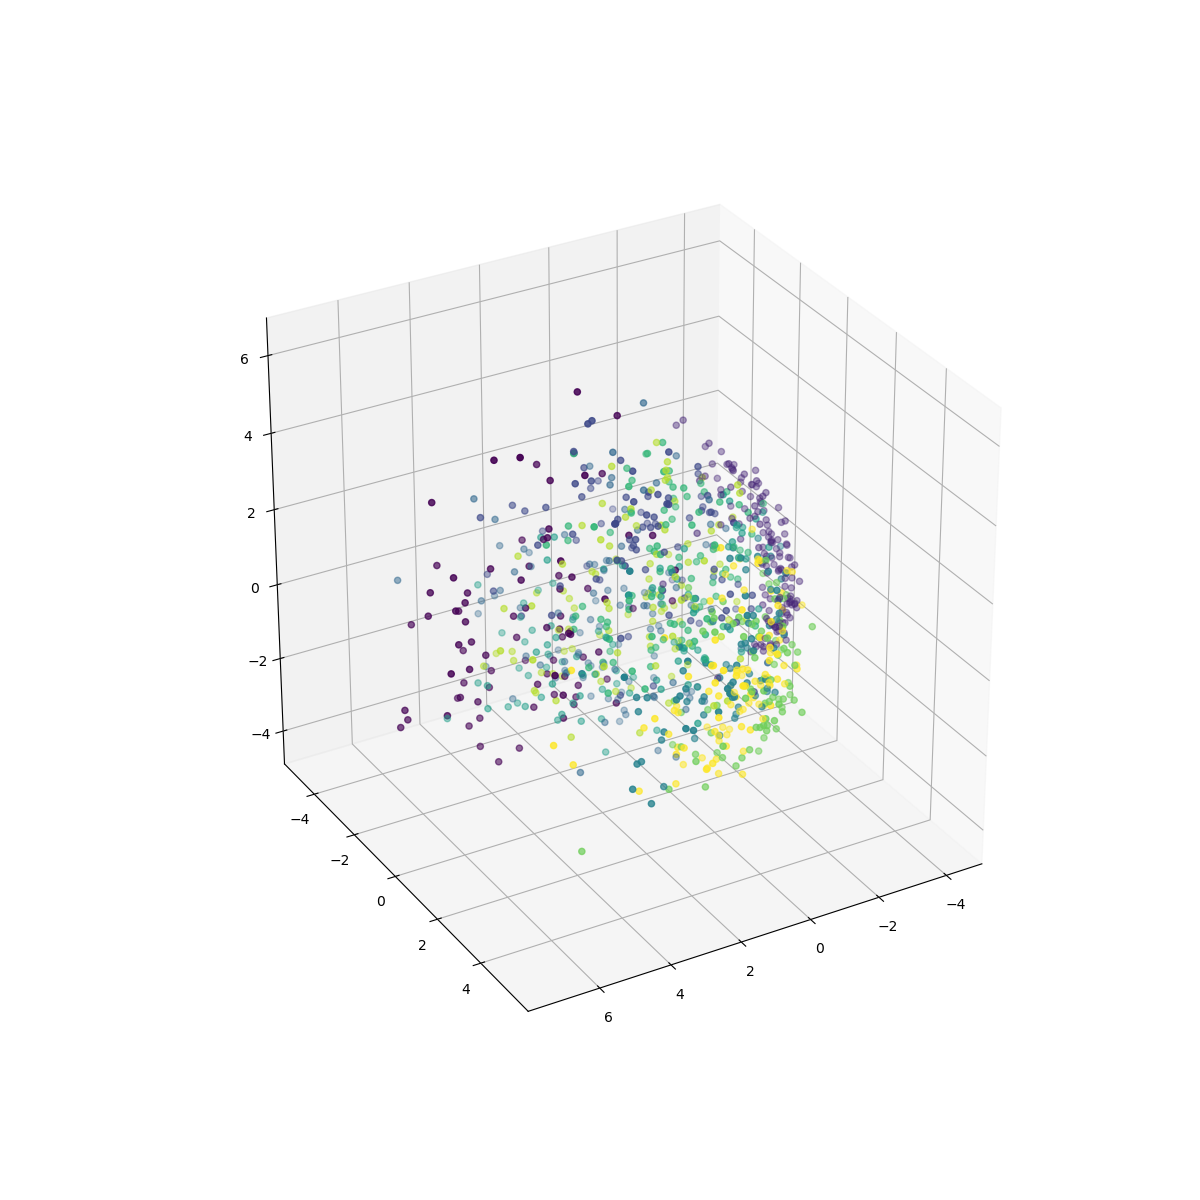
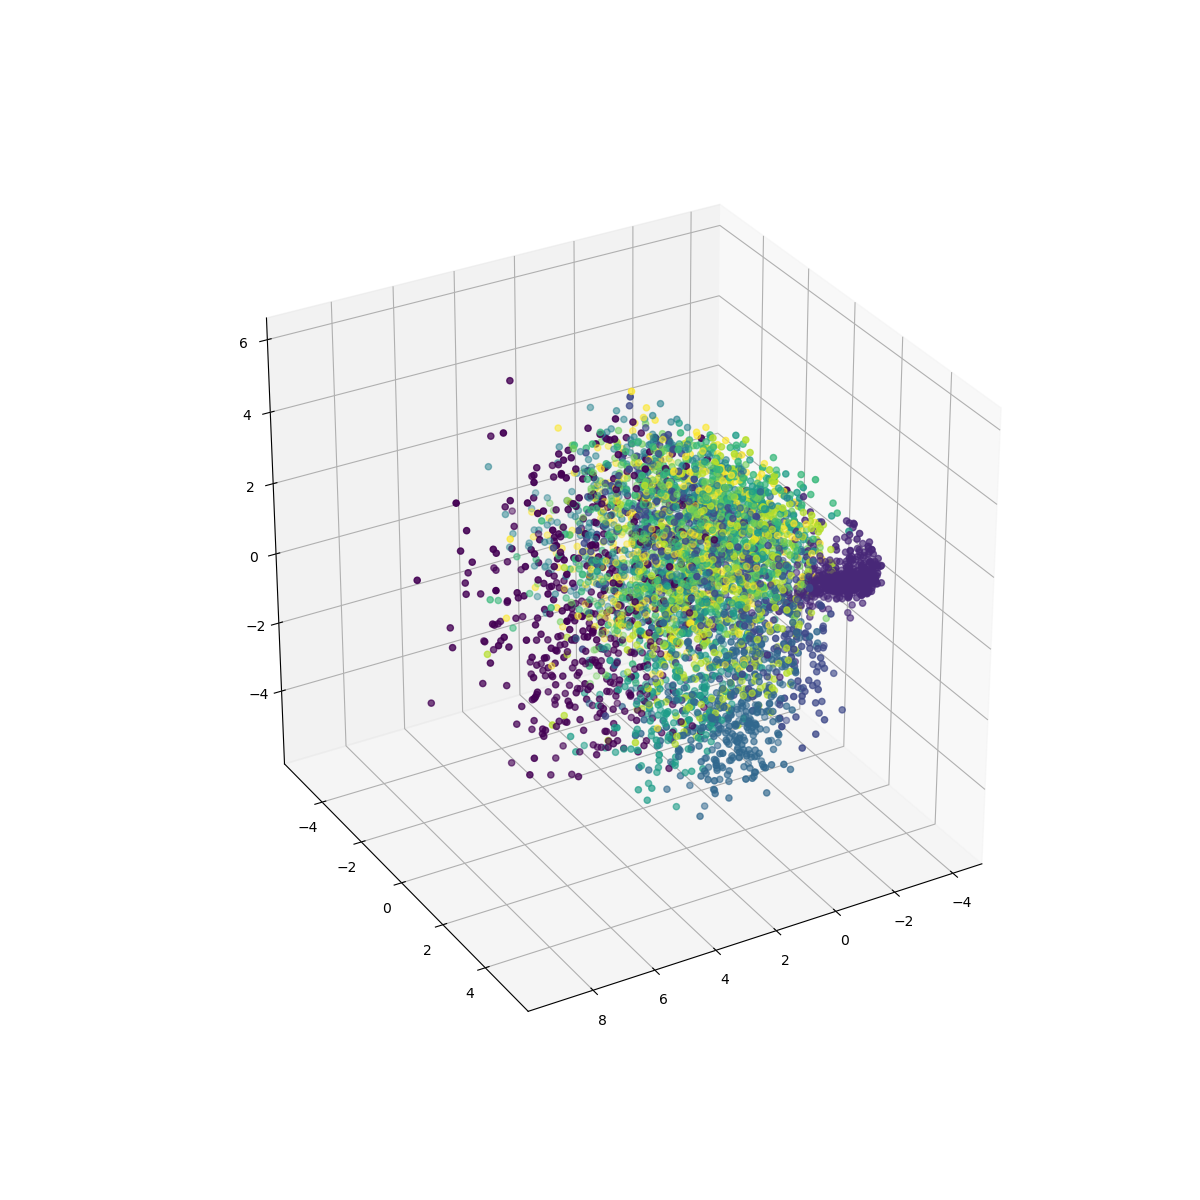
Incremental commit

diff --git a/shared_imports.py b/shared_imports.py
@@ -3,6 +3,7 @@ warnings.simplefilter(action='ignore', category=FutureWarning)
 warnings.simplefilter(action='ignore', category=UserWarning)
 
 # suppress tensorflow info/warnings
+import sys
 import os
 os.environ['TF_CPP_MIN_LOG_LEVEL'] = '3'
 import tensorflow as tf
@@ -36,7 +37,7 @@ from keras.models import Model
 from keras.layers import Input
 from keras.layers import Layer, Dense, Conv2D, Conv2DTranspose, MaxPooling2D, Flatten, Activation, Lambda, Reshape
 from keras.layers.advanced_activations import LeakyReLU
-from keras.losses import mse, categorical_crossentropy
+from keras.losses import mse, binary_crossentropy, categorical_crossentropy
 
 # for spectral embedding
 from keras.datasets import mnist, cifar100, fashion_mnist
@@ -109,10 +110,12 @@ def load_mnist(subsample_no=0):
         X_test = X_test[index_list]
         y_test = y_test[index_list]
 
-    # center the data; this seems appropriate for cosine angle, probably doesn't
-    # hurt for other measure
-    colMeans = X_train.mean(axis=0)
-    X_train = X_train - colMeans
+    # in some cases might make sense to center
+    # omitting here
+    # colMeans = X_train.mean(axis=0)
+    # X_train = X_train - colMeans
+    # colMeans = X_test.mean(axis=0)
+    # X_test = X_test - colMeans
     return X_train, y_train, X_test, y_test
 
 # dead-simple convolutional architecture for the simple 3 x 1 regression problem
@@ -169,22 +172,123 @@ def measure(X, sim_dist_method="cosine"):
         csim = cosine_similarity(X)
     return csim
 
+# sample from MVN given a mean and log standard deviation
+def sampling(args):
+    z_mu, z_log_sigma = args
+    latent_dim = z_mu.shape[1]
+    # sample white noise
+    epsilon = K.random_normal(shape=(K.shape(z_mu)[0], latent_dim), mean=0., stddev=1.)
+    return z_mu + K.exp(z_log_sigma) * epsilon
+
+# most of code from: https://keras.io/examples/variational_autoencoder/
+def vae_embed(X_train, y_train, X_test, y_test, latent_dim=3, epochs=10, verbose=0):
+    # hard-coding this
+    image_size = 28
+    original_dim = image_size * image_size
+    input_shape = (original_dim, )
+    intermediate_dim = 512
+    batch_size = 128
+
+    # build encoder model
+    inputs = Input(shape=input_shape, name='encoder_input')
+    x = Dense(intermediate_dim, activation='relu')(inputs)
+    z_mean = Dense(latent_dim, name='z_mean')(x)
+    z_log_var = Dense(latent_dim, name='z_log_var')(x)
+
+    # define a sample vector from the latent distribution
+    # this will be the input into the decoder!
+    z = Lambda(sampling, output_shape=(latent_dim,), name='z')([z_mean, z_log_var])
+
+    encoder = Model(inputs, [z_mean, z_log_var, z], name='encoder')
+
+    # build decoder model
+    latent_inputs = Input(shape=(latent_dim,), name='z_sampling')
+    x = Dense(intermediate_dim, activation='relu')(latent_inputs)
+    outputs = Dense(original_dim, activation='sigmoid')(x)
+
+    decoder = Model(latent_inputs, outputs, name='decoder')
+
+    # instantiate VAE model
+    outputs = decoder(encoder(inputs)[2])
+    vae = Model(inputs, outputs, name='vae_mlp')
+
+    reconstruction_loss = mse(inputs, outputs)
+
+    reconstruction_loss *= original_dim
+    kl_loss = 1 + z_log_var - K.square(z_mean) - K.exp(z_log_var)
+    kl_loss = K.sum(kl_loss, axis=-1)
+    kl_loss *= -0.5
+    vae_loss = K.mean(reconstruction_loss + kl_loss)
+    vae.add_loss(vae_loss)
+    vae.compile(optimizer='adam')
+
+    vae.fit(X_train, epochs=epochs, batch_size=batch_size, validation_data=(X_test, None))
+
+    if verbose > 0 and latent_dim == 2:
+        # plot diagnostics
+        filename = "plots/vae_mean.png"
+        z_mean, _, _ = encoder.predict(X_test, batch_size=128)
+        plt.figure(figsize=(12, 10))
+        plt.scatter(z_mean[:, 0], z_mean[:, 1], c=y_test)
+        plt.colorbar()
+        plt.xlabel("z[0]")
+        plt.ylabel("z[1]")
+        plt.savefig(filename)
+
+        filename = "plots/latent_digits.png"
+        # display a 30x30 2D manifold of digits
+        n = 30
+        digit_size = 28
+        figure = np.zeros((digit_size * n, digit_size * n))
+        # linearly spaced coordinates corresponding to the 2D plot
+        # of digit classes in the latent space
+        grid_x = np.linspace(-4, 4, n)
+        grid_y = np.linspace(-4, 4, n)[::-1]
+
+        for i, yi in enumerate(grid_y):
+            for j, xi in enumerate(grid_x):
+                z_sample = np.array([[xi, yi]])
+                x_decoded = decoder.predict(z_sample)
+                digit = x_decoded[0].reshape(digit_size, digit_size)
+                figure[i * digit_size: (i + 1) * digit_size,
+                       j * digit_size: (j + 1) * digit_size] = digit
+
+        plt.figure(figsize=(10, 10))
+        start_range = digit_size // 2
+        end_range = n * digit_size + start_range + 1
+        pixel_range = np.arange(start_range, end_range, digit_size)
+        sample_range_x = np.round(grid_x, 1)
+        sample_range_y = np.round(grid_y, 1)
+        plt.xticks(pixel_range, sample_range_x)
+        plt.yticks(pixel_range, sample_range_y)
+        plt.xlabel("z[0]")
+        plt.ylabel("z[1]")
+        plt.imshow(figure, cmap='Greys_r')
+        plt.savefig(filename)
+
+    # we'll just need the latent space, so return encoder only
+    return encoder
+
 # perform an embedding of X
-def embed(X, n_components, embed_method="PCA"):
+def embed(X_train, y_train, X_test, y_test, n_components, embed_method="PCA", epochs=10):
     X_transformed = None
     if embed_method == "Laplacian eigenmaps":
         embedding = SpectralEmbedding(n_components=n_components)
-        X_transformed = embedding.fit_transform(X)
+        X_transformed = embedding.fit_transform(X_train)
+    elif embed_method == "VAE":
+        encoder = vae_embed(X_train, y_train, X_test, y_test, latent_dim=n_components, epochs=epochs)
+        X_transformed, _, _ = encoder.predict(X_train, batch_size=128)
+        print(X_transformed.shape)
     else:
         pca = decomposition.PCA(n_components=n_components)
-        pca.fit(X)
-        X_transformed = pca.transform(X)
+        pca.fit(X_train)
+        X_transformed = pca.transform(X_train)
     return X_transformed
 
 # wrapper to embed and get the vector of (off-diagonal) pairwise distances
 # here csim_hd is the similarity or distance matrix over the same samples in the HD space
-def embed_and_correlate(X, n_components, csim_hd, embed_method="PCA", sim_dist_method="cosine"):
-    X_transformed = embed(X, n_components, embed_method=embed_method)
+def embed_and_correlate(X_train, y_train, X_test, y_test, n_components, csim_hd, embed_method="PCA", sim_dist_method="cosine", epochs=10):
+    X_transformed = embed(X_train, y_train, X_test, y_test, n_components, embed_method=embed_method, epochs=epochs)
     csim_ld_vec = None
     mean_measure = 0.0
     std_measure = 0.0
@@ -204,52 +308,6 @@ def embed_and_correlate(X, n_components, csim_hd, embed_method="PCA", sim_dist_m
         corr_measure = np.corrcoef(csim_hd_vec, csim_ld_vec)[0,1]
     return (X_transformed, mean_measure, std_measure, corr_measure)
 
-# heavily borrowing architecture from: https://keras.io/examples/variational_autoencoder/
-# network parameters
-def vae_embed(X_train, X_test, latent_dim=3, epochs=10, verbose=1):
-    # we'll only use this with MNIST; hard-code the dimensions
-    original_dim = 28*28
-    input_shape = (original_dim, )
-    intermediate_dim = 12*12 # pretty arbitrary
-
-    # encoder; simple - no convolution, just dense layers
-    inputs = Input(shape=input_shape, name='encoder_input')
-    x = Dense(intermediate_dim, activation='relu')(inputs)
-    z_mean = Dense(latent_dim, name='z_mean')(x)
-    z_log_var = Dense(latent_dim, name='z_log_var')(x)
-
-    # define a sample vector from the latent distribution
-    # this will be the input into the decoder!
-    z = Lambda(sampling, output_shape=(latent_dim,), name='z')([z_mean, z_log_var])
-
-    encoder = Model(inputs, [z_mean, z_log_var, z], name='encoder')
-
-    # decoder
-    latent_inputs = Input(shape=(latent_dim,), name='z_sampling')
-    x = Dense(intermediate_dim, activation='relu')(latent_inputs)
-    outputs = Dense(original_dim, activation='sigmoid')(x)
-
-    decoder = Model(latent_inputs, outputs, name='decoder')
-
-    # instantiate VAE model
-    outputs = decoder(encoder(inputs)[2])
-    vae = Model(inputs, outputs, name='vae_mlp')
-    models = (encoder, decoder)
-
-    reconstruction_loss = mse(inputs, outputs)
-
-    reconstruction_loss *= original_dim
-    kl_loss = 1 + z_log_var - K.square(z_mean) - K.exp(z_log_var)
-    kl_loss = K.sum(kl_loss, axis=-1)
-    kl_loss *= -0.5
-    vae_loss = K.mean(reconstruction_loss + kl_loss)
-    vae.add_loss(vae_loss)
-    vae.compile(optimizer='adam')
-
-    vae.fit(X_train, epochs=epochs, batch_size=128, validation_data=(X_test, None), verbose=verbose)
-    
-    # just return the fitted /encoder/, since all we want to do is predict
-    return encoder
 
 
 

diff --git a/pr2.py b/pr2.py
@@ -1,52 +1,55 @@
 from shared_imports import *
 
+# get similarity measure from user
+sim_dist_method = "cosine"
+if(len(sys.argv) > 1):
+    if sys.argv[1] == "euclid":
+        sim_dist_method == "Euclidean distance"
+    elif sys.argv[1] == "knn":
+        sim_dist_method == "KNN"
+
 # problem 2 part 1 - use a spectral embedding method (or two) to embed the MNIST data and evaluate
 #                    how well distances are preserved
 
+# problem 2 part 2 - rinse, repeat with a variational autoencoder; we'll combine all into one script
+
 # embed X_train and report the similarity of its pairwise similarities/distances with those in the original
 # space
-def report_embedding(X, n_components, csim_hd, embed_method, sim_dist_method):
-    print("    Embedding dimension: " + str(n_components))
-    (X_transformed, mean_measure, std_measure, corr_measure) = embed_and_correlate(X_train, n_components, csim_hd, embed_method=embed_method, sim_dist_method=sim_dist_method)
+def report_embedding(X_train, y_train, X_test, y_test, n_components, csim_hd, embed_method, sim_dist_method):
+    print("  Embedding dimension: " + str(n_components))
+    (X_transformed, mean_measure, std_measure, corr_measure) = embed_and_correlate(X_train, y_train, X_test, y_test, n_components, csim_hd, embed_method=embed_method, sim_dist_method=sim_dist_method, epochs=2)
     if sim_dist_method != "KNN":
-        print("      Mean of low-dim similarities/distances: " + str(round(mean_measure, round_tol)))
-        print("      Std dev of low-dim similarities/distances: " + str(round(std_measure, round_tol)))
-    print("      Correlation of similarities/distances: " + str(round(corr_measure, round_tol)))
+        print("    Mean of low-dim similarities/distances: " + str(round(mean_measure, round_tol)))
+        print("    Std dev of low-dim similarities/distances: " + str(round(std_measure, round_tol)))
+    print("    Correlation of similarities/distances: " + str(round(corr_measure, round_tol)))
 
-(X_train, y_train, X_test, y_test) = load_mnist(subsample_no=1000)
+(X_train, y_train, X_test, y_test) = load_mnist(subsample_no=2000)
 
 print("Original dimensionality is: " + str(X_train.shape[1]))
 
-
-'''
-sim_dist_method_array = ["cosine", "Euclidean distance", "KNN"]
-csim_hd_array = {}
-for sim_dist_method in sim_dist_method_array:
-    csim_hd_array[sim_dist_method] = measure(X_train, sim_dist_method=sim_dist_method)
+csim_hd = measure(X_train, sim_dist_method=sim_dist_method)
 
 # top loop, for efficiency: embedding methods
 # then loop similarity/distance measures
 # then loop embedding dimensions (component number)
 
 # in practice this is super difficult to parse!
-
 component_sweep = [784, 400, 200, 100, 50, 10, 3]
-# component_sweep = [10]
 
-for embed_method in ["PCA", "Laplacian eigenmaps"]:
+#for embed_method in ["PCA", "Laplacian eigenmaps"]:
+for embed_method in ["VAE"]:
     print("Embedding method: " + embed_method)
-    for sim_dist_method in sim_dist_method_array:
-        print("  Similarity/distance: " + sim_dist_method)
-        csim_hd = csim_hd_array[sim_dist_method]
-        if sim_dist_method != "KNN":
-            csim_hd_vec = vectorize_measure(csim_hd)
-            print("  Mean of high-dim similarity/distance: " + str(round(np.mean(csim_hd_vec), round_tol)))
-            print("  Std dev of high-dim similarity/distance: " + str(round(np.std(csim_hd_vec), round_tol)))
-        for n_components in component_sweep:
-            report_embedding(X_train, n_components, csim_hd, embed_method, sim_dist_method)
+    print("Similarity/distance: " + sim_dist_method)
+    if sim_dist_method != "KNN":
+        csim_hd_vec = vectorize_measure(csim_hd)
+        print("  Mean of high-dim similarity/distance: " + str(round(np.mean(csim_hd_vec), round_tol)))
+        print("  Std dev of high-dim similarity/distance: " + str(round(np.std(csim_hd_vec), round_tol)))
+    for n_components in component_sweep:
+        report_embedding(X_train, y_train, X_test, y_test, n_components, csim_hd, embed_method, sim_dist_method)
 
+'''
 # plot the 3D embedding (PCA)
-(X_transformed, mean_measure, std_measure, corr_measure) = embed_and_correlate(X_train, 3, csim_hd, embed_method="PCA")
+X_transformed = embed(X_train, y_train, X_test, y_test, 3, embed_method="PCA")
 df = pd.DataFrame({'X': X_transformed[:,0], 'Y': X_transformed[:,1], 'Z': X_transformed[:,2], 'label': y_train })
 
 fig = plt.figure(figsize=(12,12))
@@ -56,7 +59,7 @@ ax.view_init(30, 60)
 plt.savefig("plots/PCA_embedding.png")
 
 # plot the 3D embedding (Laplacian eigenmaps)
-(X_transformed, mean_measure, std_measure, corr_measure) = embed_and_correlate(X_train, 3, csim_hd, embed_method="Laplacian eigenmaps")
+X_transformed = embed(X_train, y_train, X_test, y_test, 3, embed_method="Laplacian eigenmaps")
 df = pd.DataFrame({'X': X_transformed[:,0], 'Y': X_transformed[:,1], 'Z': X_transformed[:,2], 'label': y_train })
 
 fig = plt.figure(figsize=(12,12))
@@ -64,7 +67,14 @@ ax = fig.add_subplot(111, projection='3d')
 ax.scatter(df['X'], df['Y'], df['Z'], c=df['label'], cmap='viridis', s=20)
 ax.view_init(30, 60)
 plt.savefig("plots/Laplacian_eigenmaps_embedding.png")
-'''
-# problem 2 part 2 - rinse, repeat with a variational autoencoder
 
-encoder = vae_embed(X_train, X_test, latent_dim=3, epochs=20)
+# plot the 3D embedding (VAE)
+X_transformed = embed(X_train, y_train, X_test, y_test, 3, embed_method="VAE", epochs=2)
+df = pd.DataFrame({'X': X_transformed[:,0], 'Y': X_transformed[:,1], 'Z': X_transformed[:,2], 'label': y_train })
+
+fig = plt.figure(figsize=(12,12))
+ax = fig.add_subplot(111, projection='3d')
+ax.scatter(df['X'], df['Y'], df['Z'], c=df['label'], cmap='viridis', s=20)
+ax.view_init(30, 60)
+plt.savefig("plots/VAE_embedding.png")
+'''

diff --git a/pr1.py b/pr1.py
@@ -7,7 +7,7 @@ from shared_imports import *
 # may want to try non-linear kernel
 
 subsample_no = 200
-batch_size = int(subsample_no / 20.)
+batch_size = 128
 epochs = 10
 
 (X, y) = load_lab1_data(subsample_no=subsample_no)
